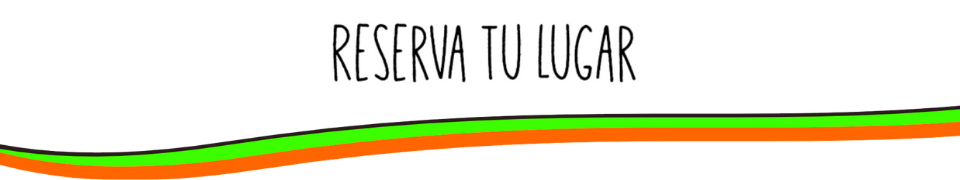
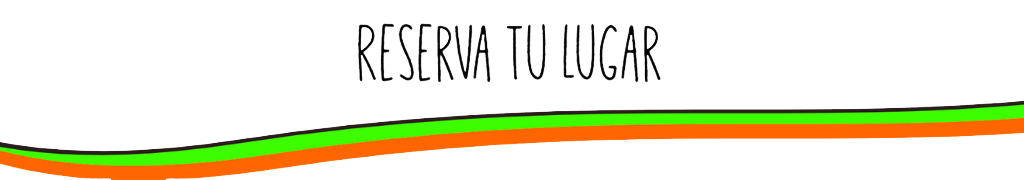
changes

diff --git a/src/components/Bookings/Bookings.js b/src/components/Bookings/Bookings.js
@@ -1,8 +1,8 @@
 import React, { useState } from 'react'
-import {Container, Row, Col, Tab, ListGroup, Image } from 'react-bootstrap';
+import {Container, Row, Col, Tab, ListGroup} from 'react-bootstrap';
 import { FontAwesomeIcon } from '@fortawesome/react-fontawesome';
 import {  faConciergeBell, faWater } from '@fortawesome/free-solid-svg-icons';
-import reservatulugar from '../Images/reservatulugar.png'
+
 import Rafting from '../Rafting/Rafting';
 import Accommodation from '../Accommodation/Accommodation';
 import Footer from '../Footer/Footer';
@@ -13,8 +13,8 @@ export default function Bookings() {
     const [active, setActive] = useState('alojamiento');
 
     return (
-        <div className="text-center backgroundimage">
-            <Image src={reservatulugar} fluid alt="" />
+        <div className="text-center px-2">
+            
             <Tab.Container>
                 <Row className="justify-content-center mx-0 mx-md-5 formheight">
 

diff --git a/src/components/Home/Home.js b/src/components/Home/Home.js
@@ -1,5 +1,6 @@
 import React from 'react'
-import { Container, Row, Col } from 'react-bootstrap';
+import { Container, Row, Col, Image } from 'react-bootstrap';
+import reservatulugar from '../Images/reservatulugar.png'
 import Slide from '../Slider/Slider';
 import Bookings from '../Bookings/Bookings';
 
@@ -14,7 +15,8 @@ export default function Home() {
                     <Col xs={12} lg={6} className="p-0">
                         <Slide />
                     </Col>
-                    <Col xs={12} lg={6}>
+                    <Col xs={12} lg={6} className="backgroundimage">
+                        <Image src={reservatulugar} fluid alt="" />
                         <Bookings />
                     </Col>
                 </Row>

diff --git a/src/components/Footer/Footer.js b/src/components/Footer/Footer.js
@@ -8,10 +8,10 @@ export default function Footer() {
             <div className="mb-0 pb-0 pt-3 borderfooter text-center">
              
             <Row>
-                <Col xs={12} md={9} className="text-center text-md-left font-weight-bold">
+                <Col xs={12} md={7} className="text-center text-md-left font-weight-bold">
                     <p className="footertext">COHUIN-CO  |  CONTACTANOS  </p>
                 </Col>
-                <Col xs={12} md={3} className="text-center text-md-right font-weight-bold">
+                <Col xs={12} md={5} className="text-center text-md-right font-weight-bold">
                     <p className="footertext">&copy;2020 COHUIN-CO</p>
                 </Col>
             </Row>

diff --git a/src/components/Slider/Slider.css b/src/components/Slider/Slider.css
@@ -50,6 +50,14 @@
     .carousel-control-prev-icon{
         display: none;
     }
+    .logo{
+        position: absolute;
+        width: 150px;
+        height: 150px;
+        z-index: 2;
+        top: 0;
+        left: 37%;
+    }
 }
 
 
@@ -66,5 +74,13 @@
     }
     .carousel-control-prev-icon{
         display: none;
+    }
+    .logo{
+        position: absolute;
+        width: 100px;
+        height: 100px;
+        z-index: 2;
+        top: 0;
+        left: 5%;
     }
 }

diff --git a/src/components/Bookings/Bookings.css b/src/components/Bookings/Bookings.css
@@ -1,12 +1,7 @@
 .formheight{
     margin-top: 5vh;
 }
-.backgroundimage{
-    background-image: url(../Images//background.png);
-    background-position: center;
-    background-repeat: repeat;
-    background-size: contain;
-}
+
 
 
 .bordercolor{

diff --git a/src/components/Home/Home.css b/src/components/Home/Home.css
@@ -3,3 +3,9 @@
     top: 10%;
 }
 
+.backgroundimage{
+    background-image: url(../Images//background.png);
+    background-position: center;
+    background-repeat: repeat;
+    background-size: contain;
+}
